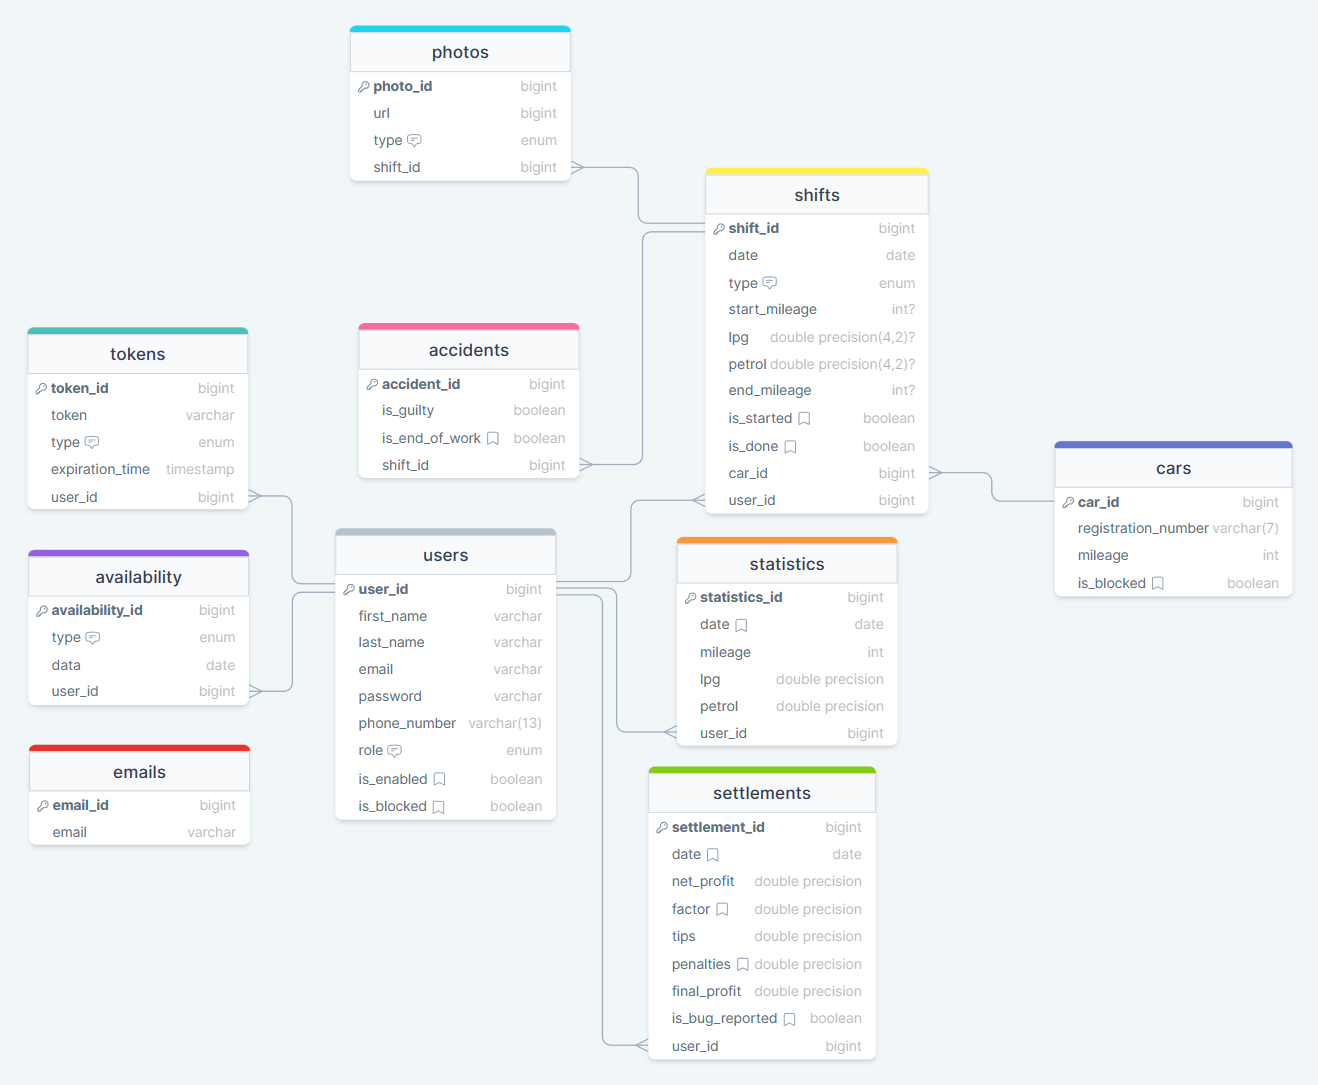
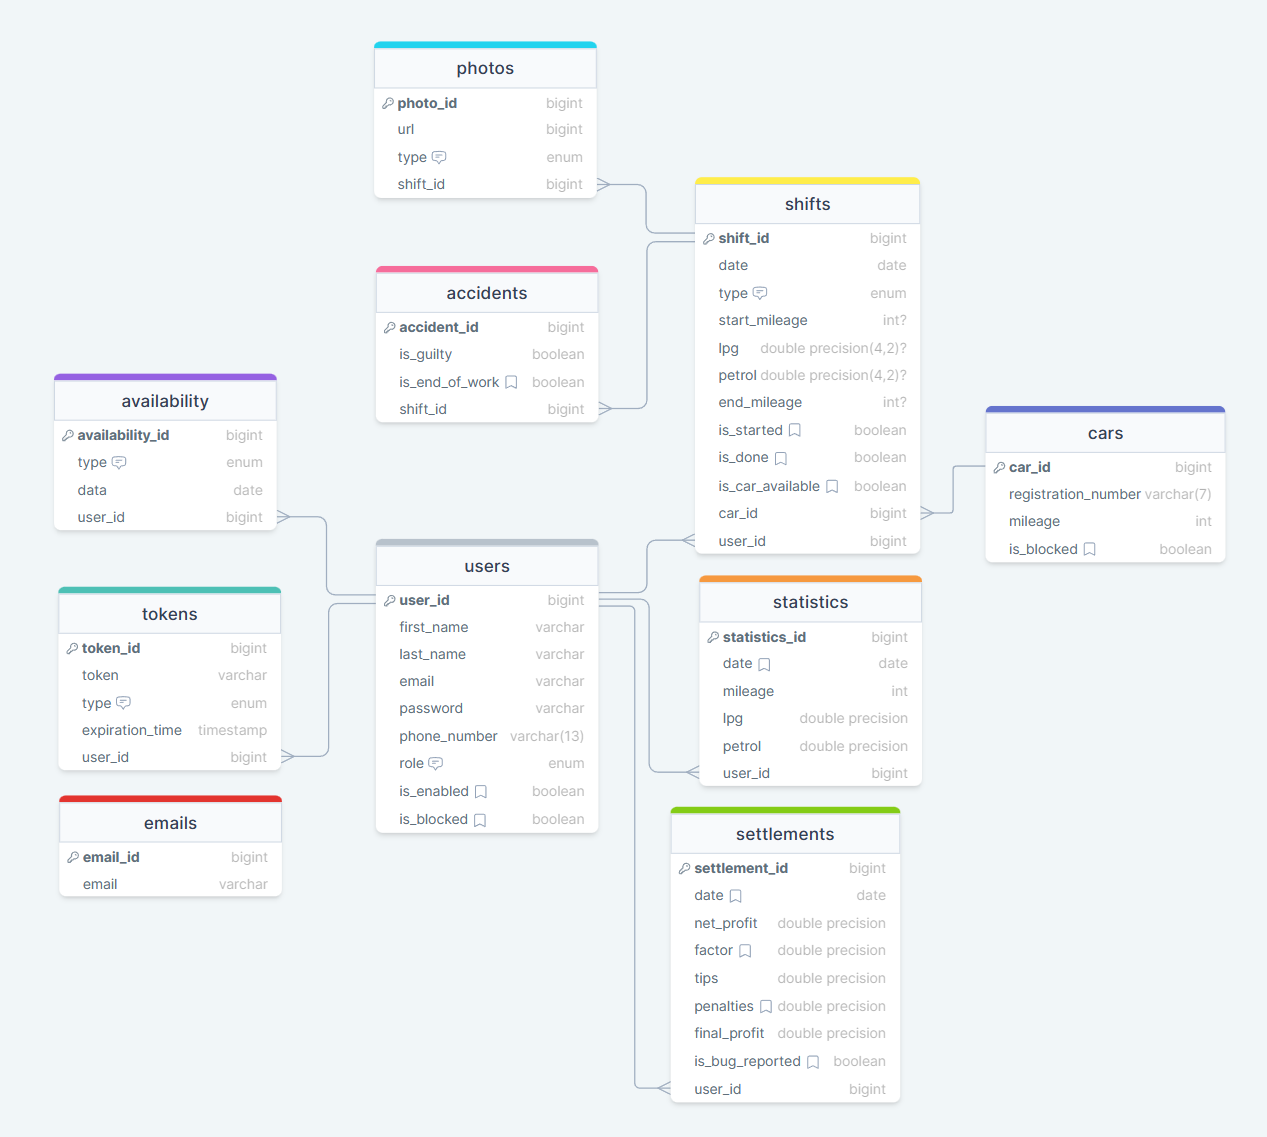
is car available var added

diff --git a/src/main/java/com/ciosmak/automotivepartner/shift/support/ShiftMapper.java b/src/main/java/com/ciosmak/automotivepartner/shift/support/ShiftMapper.java
@@ -34,12 +34,12 @@ public class ShiftMapper
 
     public Shift toShift(ShiftRequest shiftRequest)
     {
-        return new Shift(shiftRequest.getDate(), shiftRequest.getType(), shiftRequest.getStartMileage(), shiftRequest.getLpg(), shiftRequest.getPetrol(), shiftRequest.getEndMileage(), shiftRequest.getIsStarted(), shiftRequest.getIsDone(), carRepository.findById(shiftRequest.getCarId()).orElseThrow(CarExceptionSupplier.carNotFound(shiftRequest.getCarId())), userRepository.findById(shiftRequest.getUserId()).orElseThrow(UserExceptionSupplier.userNotFound(shiftRequest.getUserId())));
+        return new Shift(shiftRequest.getDate(), shiftRequest.getType(), shiftRequest.getStartMileage(), shiftRequest.getLpg(), shiftRequest.getPetrol(), shiftRequest.getEndMileage(), shiftRequest.getIsStarted(), shiftRequest.getIsDone(), shiftRequest.getIsCarAvailable(), carRepository.findById(shiftRequest.getCarId()).orElseThrow(CarExceptionSupplier.carNotFound(shiftRequest.getCarId())), userRepository.findById(shiftRequest.getUserId()).orElseThrow(UserExceptionSupplier.userNotFound(shiftRequest.getUserId())));
     }
 
     public Shift toShift(GenerateShiftRequest generateShiftRequest)
     {
-        return new Shift(generateShiftRequest.getDate(), generateShiftRequest.getType(), null, null, null, null, Boolean.FALSE, Boolean.FALSE, carRepository.findById(generateShiftRequest.getCarId()).orElseThrow(CarExceptionSupplier.carNotFound(generateShiftRequest.getCarId())), userRepository.findById(generateShiftRequest.getUserId()).orElseThrow(UserExceptionSupplier.userNotFound(generateShiftRequest.getUserId())));
+        return new Shift(generateShiftRequest.getDate(), generateShiftRequest.getType(), null, null, null, null, Boolean.FALSE, Boolean.FALSE, Boolean.TRUE, carRepository.findById(generateShiftRequest.getCarId()).orElseThrow(CarExceptionSupplier.carNotFound(generateShiftRequest.getCarId())), userRepository.findById(generateShiftRequest.getUserId()).orElseThrow(UserExceptionSupplier.userNotFound(generateShiftRequest.getUserId())));
     }
 
     public Shift toShift(Shift shift, StartShiftRequest startShiftRequest)
@@ -75,6 +75,7 @@ public class ShiftMapper
         shift.setEndMileage(shiftRequest.getEndMileage());
         shift.setIsStarted(shiftRequest.getIsStarted());
         shift.setIsDone(shiftRequest.getIsDone());
+        shift.setIsCarAvailable(shiftRequest.getIsCarAvailable());
         shift.setCar(carRepository.findById(shiftRequest.getCarId()).orElseThrow(CarExceptionSupplier.carNotFound(shiftRequest.getCarId())));
         shift.setUser(userRepository.findById(shiftRequest.getUserId()).orElseThrow(UserExceptionSupplier.userNotFound(shiftRequest.getUserId())));
         return shift;
@@ -117,6 +118,6 @@ public class ShiftMapper
 
     public ShiftResponse toShiftResponse(Shift shift)
     {
-        return new ShiftResponse(shift.getId(), shift.getDate(), shift.getType(), shift.getStartMileage(), shift.getLpg(), shift.getPetrol(), shift.getEndMileage(), shift.getIsStarted(), shift.getIsDone(), shift.getCar().getId(), shift.getUser().getId());
+        return new ShiftResponse(shift.getId(), shift.getDate(), shift.getType(), shift.getStartMileage(), shift.getLpg(), shift.getPetrol(), shift.getEndMileage(), shift.getIsStarted(), shift.getIsDone(), shift.getIsCarAvailable(), shift.getCar().getId(), shift.getUser().getId());
     }
 }

diff --git a/src/main/java/com/ciosmak/automotivepartner/shift/domain/Shift.java b/src/main/java/com/ciosmak/automotivepartner/shift/domain/Shift.java
@@ -25,7 +25,7 @@ import java.util.List;
 @Table(name = "shifts")
 public class Shift extends AbstractEntity
 {
-    public Shift(LocalDate date, Type type, Integer startMileage, BigDecimal lpg, BigDecimal petrol, Integer endMileage, Boolean isStarted, Boolean isDone, Car car, User user)
+    public Shift(LocalDate date, Type type, Integer startMileage, BigDecimal lpg, BigDecimal petrol, Integer endMileage, Boolean isStarted, Boolean isDone, Boolean isCarAvailable, Car car, User user)
     {
         this.date = date;
         this.type = type;
@@ -35,6 +35,7 @@ public class Shift extends AbstractEntity
         this.endMileage = endMileage;
         this.isStarted = isStarted;
         this.isDone = isDone;
+        this.isCarAvailable = isCarAvailable;
         this.car = car;
         this.user = user;
     }
@@ -65,6 +66,9 @@ public class Shift extends AbstractEntity
 
     @Column(name = "is_done", nullable = false, columnDefinition = "BOOLEAN DEFAULT false")
     private Boolean isDone;
+
+    @Column(name = "is_car_available", nullable = false, columnDefinition = "BOOLEAN DEFAULT true")
+    private Boolean isCarAvailable;
 
     @ManyToOne(cascade = {CascadeType.PERSIST, CascadeType.MERGE})
     @JoinColumn(name = "car_id", nullable = false)

diff --git a/src/main/java/com/ciosmak/automotivepartner/shift/api/request/ShiftRequest.java b/src/main/java/com/ciosmak/automotivepartner/shift/api/request/ShiftRequest.java
@@ -18,11 +18,12 @@ public class ShiftRequest
     private final Integer endMileage;
     private final Boolean isStarted;
     private final Boolean isDone;
+    private final Boolean isCarAvailable;
     private final Long carId;
     private final Long userId;
 
     @JsonCreator
-    public ShiftRequest(LocalDate date, Type type, Integer startMileage, BigDecimal lpg, BigDecimal petrol, Integer endMileage, Boolean isStarted, Boolean isDone, Long carId, Long userId)
+    public ShiftRequest(LocalDate date, Type type, Integer startMileage, BigDecimal lpg, BigDecimal petrol, Integer endMileage, Boolean isStarted, Boolean isDone, Boolean isCarAvailable, Long carId, Long userId)
     {
         this.date = date;
         this.type = type;
@@ -32,6 +33,7 @@ public class ShiftRequest
         this.endMileage = endMileage;
         this.isStarted = isStarted;
         this.isDone = isDone;
+        this.isCarAvailable = isCarAvailable;
         this.carId = carId;
         this.userId = userId;
     }

diff --git a/src/main/java/com/ciosmak/automotivepartner/shift/api/response/ShiftResponse.java b/src/main/java/com/ciosmak/automotivepartner/shift/api/response/ShiftResponse.java
@@ -20,6 +20,7 @@ public class ShiftResponse
     private final Integer endMileage;
     private final Boolean isStarted;
     private final Boolean isDone;
+    private final Boolean isCarAvailable;
     private final Long carId;
     private final Long userId;
 }
